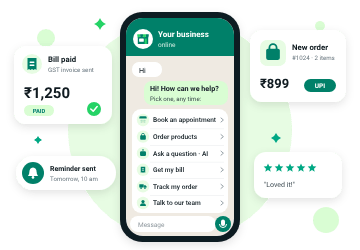
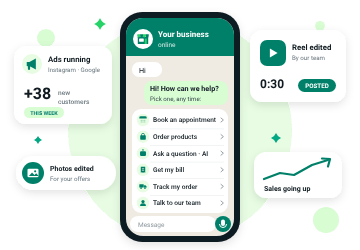
Welcome picture and words: our team runs ads and edits videos and photos [skip ci]
Owner: also tell that we run ads, edit videos and images, bring customers and grow the business. The chat still
offers every service to customers; the cards around it now show what our team does for the owner: ads running
(+38 new customers this week), a reel edited and posted, photos edited, sales going up. The welcome line says it too.

Claude-Session: https://claude.ai/code/session_01CjRiYz4tomoTeVrAzbZoJB

diff --git a/mobile/lib/screens/auth/login_screen.dart b/mobile/lib/screens/auth/login_screen.dart
@@ -207,7 +207,7 @@ class _LoginScreenState extends State<LoginScreen> {
           'welcome',
           aspect: 360 / 250,
           maxHeight: (height * (height < 700 ? 0.28 : 0.34)).clamp(130.0, 300.0),
-          semantic: 'A WhatsApp chat offering bookings, orders, AI answers, bills, order tracking and the team',
+          semantic: 'A WhatsApp chat offering bookings, orders, AI answers, bills and order tracking, with ads, an edited reel and photos bringing new customers',
         ),
         const SizedBox(height: 14),
         const Text(
@@ -216,7 +216,7 @@ class _LoginScreenState extends State<LoginScreen> {
         ),
         const SizedBox(height: 8),
         const Text(
-          'Bookings, bills, your online store and customer chats, for salons, clinics, shops and any business.',
+          'Bookings, orders, bills and AI chat for any business. Our team also runs your ads and edits your videos and photos, so more customers find you.',
           style: TextStyle(color: Brand.textSoft, fontSize: 15, height: 1.42),
         ),
         const SizedBox(height: 14),

diff --git a/mobile/design/art/gen.py b/mobile/design/art/gen.py
@@ -158,24 +158,22 @@ def welcome():
     scr += rect(130, 216, 86, 16, 8, W) + text(138, 227, 'Message', 6.5, 400, F)
     scr += circle(223, 224, 8, G) + rect(221, 219.5, 4, 6.5, 2, W) + f'<path d="M219.5 224 a3.5 3.5 0 0 0 7 0" fill="none" stroke="{W}" stroke-width="1"/>'
     b += f'<g clip-path="url(#scr)">{scr}</g>'
-    # Bill paid
-    bill = circle(18, 18, 10, L2)
-    bill += f'<path d="M13.5 12 h9 v12 l-1.5 -1 l-1.5 1 l-1.5 -1 l-1.5 1 l-1.5 -1 l-1.5 1 Z" fill="{G}"/>' + line(15.5, 15.5, 5, 1.4, W) + line(15.5, 18.5, 5, 1.4, W)
-    bill += text(34, 16, 'Bill paid', 7.8, 700) + text(34, 26, 'GST invoice sent', 6.2, 400, M)
-    bill += text(10, 52, '₹1,250', 15, 700) + rect(10, 59, 30, 11, 5.5, L) + text(25, 66.8, 'PAID', 5.8, 700, G, 'middle')
-    bill += circle(80, 63, 7, B) + check(76.8, 59.8, 6.4, W, 1.5)
-    b += card(14, 46, 98, 78, 12, W, bill)
-    # New order
-    order = rect(10, 10, 26, 26, 7, L2) + bag(14, 13, 18)
-    order += text(42, 20, 'New order', 7.8, 700) + text(42, 30, '#1024 · 2 items', 6.2, 400, M)
-    order += text(10, 58, '₹899', 13, 700) + rect(54, 49, 32, 13, 6.5, G) + text(70, 58, 'UPI', 6.5, 700, W, 'middle')
-    b += card(250, 30, 96, 72, 12, W, order)
-    # Review
-    rev = ''.join(star(14 + i * 11, 16, 4.6) for i in range(5)) + text(10, 35, '"Loved it!"', 7, 400, T2)
-    b += card(254, 152, 88, 46, 12, W, rev)
-    # Reminder
-    rem = circle(17, 17, 11, G) + bell(17, 17, 12) + text(34, 15, 'Reminder sent', 7, 700) + text(34, 25, 'Tomorrow, 10 am', 6.2, 400, M)
-    b += card(16, 156, 100, 34, 17, W, rem)
+    # Around the phone: what our team does for the owner (ads, videos, photos) and what it brings (customers, sales)
+    ads = circle(18, 18, 10, L2) + glyph('megaphone', 18, 18, 12, G)
+    ads += text(34, 16, 'Ads running', 7.8, 700) + text(34, 26, 'Instagram · Google', 6.2, 400, M)
+    ads += text(10, 53, '+38', 16, 700) + text(44, 49, 'new', 6.6, 500, M) + text(44, 57.5, 'customers', 6.6, 500, M)
+    ads += rect(10, 61, 40, 11, 5.5, L) + text(30, 68.8, 'THIS WEEK', 5.4, 700, G, 'middle')
+    b += card(14, 46, 98, 78, 12, W, ads)
+    reel = rect(10, 10, 26, 26, 7, G) + glyph('play', 23, 23, 12, W)
+    reel += text(42, 20, 'Reel edited', 7.8, 700) + text(42, 30, 'By our team', 6.2, 400, M)
+    reel += text(10, 58, '0:30', 12, 700) + rect(48, 49, 38, 13, 6.5, G) + text(67, 58, 'POSTED', 6.2, 700, W, 'middle')
+    b += card(250, 30, 96, 72, 12, W, reel)
+    sales = f'<path d="M10 27 L26 21 L40 23 L58 13 L74 8" fill="none" stroke="{G}" stroke-width="2.2" stroke-linecap="round" stroke-linejoin="round"/>'
+    sales += f'<path d="M68 6.5 L76 7 L74 14.5" fill="none" stroke="{G}" stroke-width="2.2" stroke-linecap="round" stroke-linejoin="round"/>'
+    sales += text(10, 39, 'Sales going up', 7, 700)
+    b += card(254, 152, 88, 46, 12, W, sales)
+    photos = circle(17, 17, 11, G) + glyph('photo', 17, 17, 12, W) + text(34, 15, 'Photos edited', 7, 700) + text(34, 25, 'For your offers', 6.2, 400, M)
+    b += card(16, 156, 100, 34, 17, W, photos)
     return w, h, b
 
 
@@ -424,6 +422,12 @@ def glyph(kind, cx, cy, s, c=W):
         return circle(cx, cy - u * 2, u * 2.2, c) + f'<path d="M{cx - u * 4} {cy + u * 4} a{u * 4} {u * 3.6} 0 0 1 {u * 8} 0 Z" fill="{c}"/>'
     if kind == 'translate':
         return text(cx - u * 2.4, cy + u * 0.6, 'A', s * 0.55, 700, c, 'middle') + text(cx + u * 2.2, cy + u * 3.4, 'अ', s * 0.5, 700, c, 'middle')
+    if kind == 'megaphone':
+        return f'<path d="M{cx - u * 4.4} {cy - u * 1.6} h{u * 2.2} l{u * 5.4} -{u * 3} v{u * 9.2} l-{u * 5.4} -{u * 3} h-{u * 2.2} Z" fill="{c}"/>' + rect(cx - u * 3.4, cy + u * 1.4, u * 1.8, u * 3.4, u * 0.5, c)
+    if kind == 'play':
+        return f'<path d="M{cx - u * 2.6} {cy - u * 3.8} v{u * 7.6} l{u * 6.4} -{u * 3.8} Z" fill="{c}"/>'
+    if kind == 'photo':
+        return rect(cx - u * 4.6, cy - u * 3.6, u * 9.2, u * 7.2, u * 1.2, c) + f'<path d="M{cx - u * 3.4} {cy + u * 2.6} l{u * 2.6} -{u * 3} l{u * 2} {u * 2} l{u * 1.4} -{u * 1.4} l{u * 2.2} {u * 2.4} Z" fill="{G}"/>' + circle(cx + u * 1.8, cy - u * 1.4, u * 0.9, G)
     return calendar(cx - s / 2, cy - s / 2, s, top=G, body=L2, dots=G)
 
 
